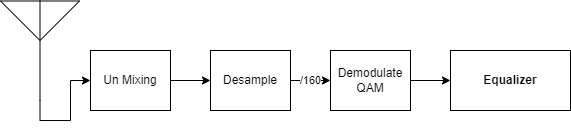
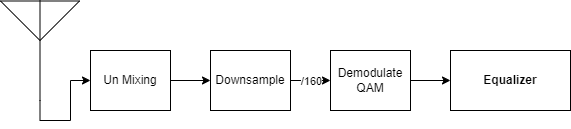
Add images and update readme

diff --git a/README.md b/README.md
@@ -12,9 +12,9 @@ The transmitter is responsible for generating a QAM signal and saving it to a .w
 
 ## Channel
 
-![Channel](img/test_Setup.png)
+![Channel](img/test_setup.png)
 
-The channel exists between a small speaker and a larger GTI hydrophone. The channel is not inside an anechoic chamber, so there is a lot of noise present in the channel. The following plots show the signal at the transmitter and receibver, the signal FFT at the transmitter and receiver, and the signal correlation to the Gold sequence at the transmitter and receiver.
+The channel exists between a small speaker and a larger GTI hydrophone. The channel is not inside an anechoic chamber, so there is a lot of noise present. The following plots show the signal at the transmitter and receiver, the signal FFT at the transmitter and receiver, and the signal correlation to the Gold sequence at the transmitter and receiver.
 
 ![ChannelTxandRx](img/channel_tx_rx.png)
 
